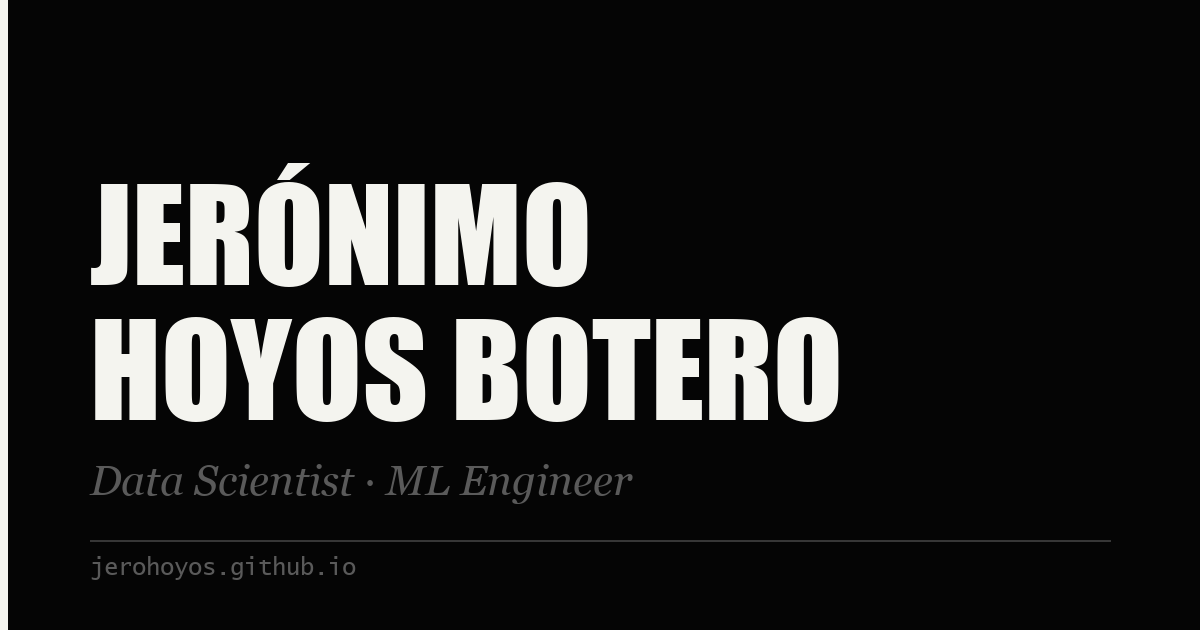
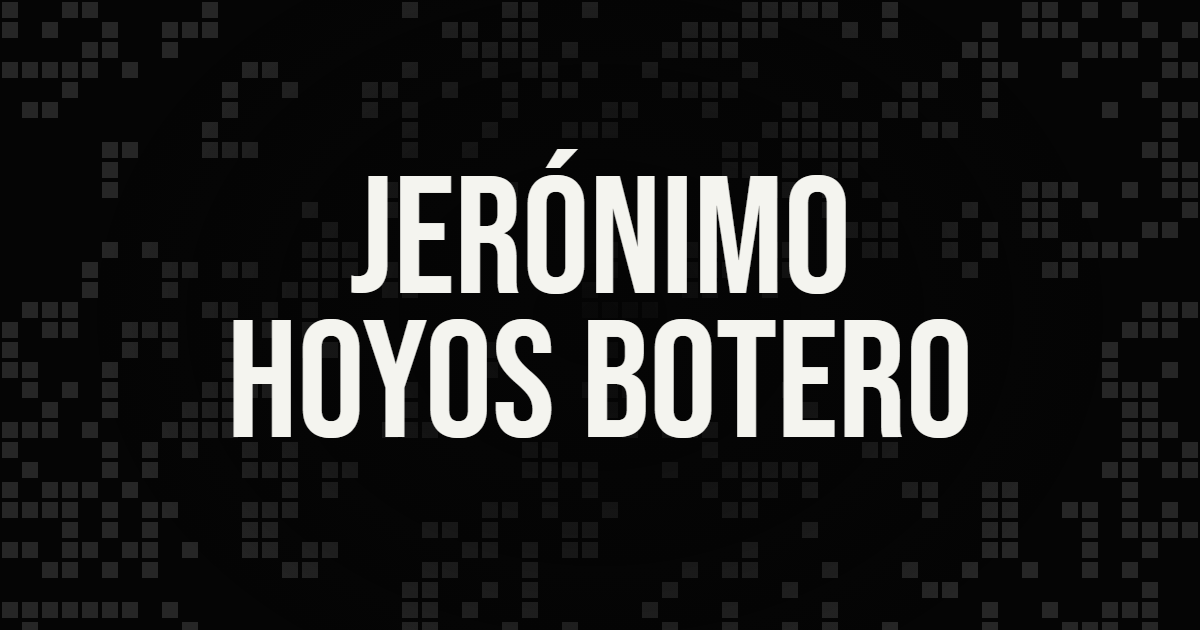
Imagen de vista previa más simple: solo el nombre sobre el juego de la vida

diff --git a/docs/index.html b/docs/index.html
@@ -14,11 +14,11 @@
 <meta property="og:description" content="Machine learning enthusiast at the Universidad Nacional de Colombia. I love cats, coding and math.">
 <meta property="og:type" content="website">
 <meta property="og:url" content="https://jerohoyos.github.io/">
-<meta property="og:image" content="https://jerohoyos.github.io/og.png">
+<meta property="og:image" content="https://jerohoyos.github.io/og.png?v=2">
 <meta property="og:image:width" content="1200">
 <meta property="og:image:height" content="630">
 <meta name="twitter:card" content="summary_large_image">
-<meta name="twitter:image" content="https://jerohoyos.github.io/og.png">
+<meta name="twitter:image" content="https://jerohoyos.github.io/og.png?v=2">
 <link rel="preconnect" href="https://fonts.googleapis.com">
 <link rel="preconnect" href="https://fonts.gstatic.com" crossorigin>
 <link href="https://fonts.googleapis.com/css2?family=Bebas+Neue&family=DM+Serif+Display:ital@0;1&family=Space+Mono:ital,wght@0,400;0,700;1,400&display=swap" rel="stylesheet">
